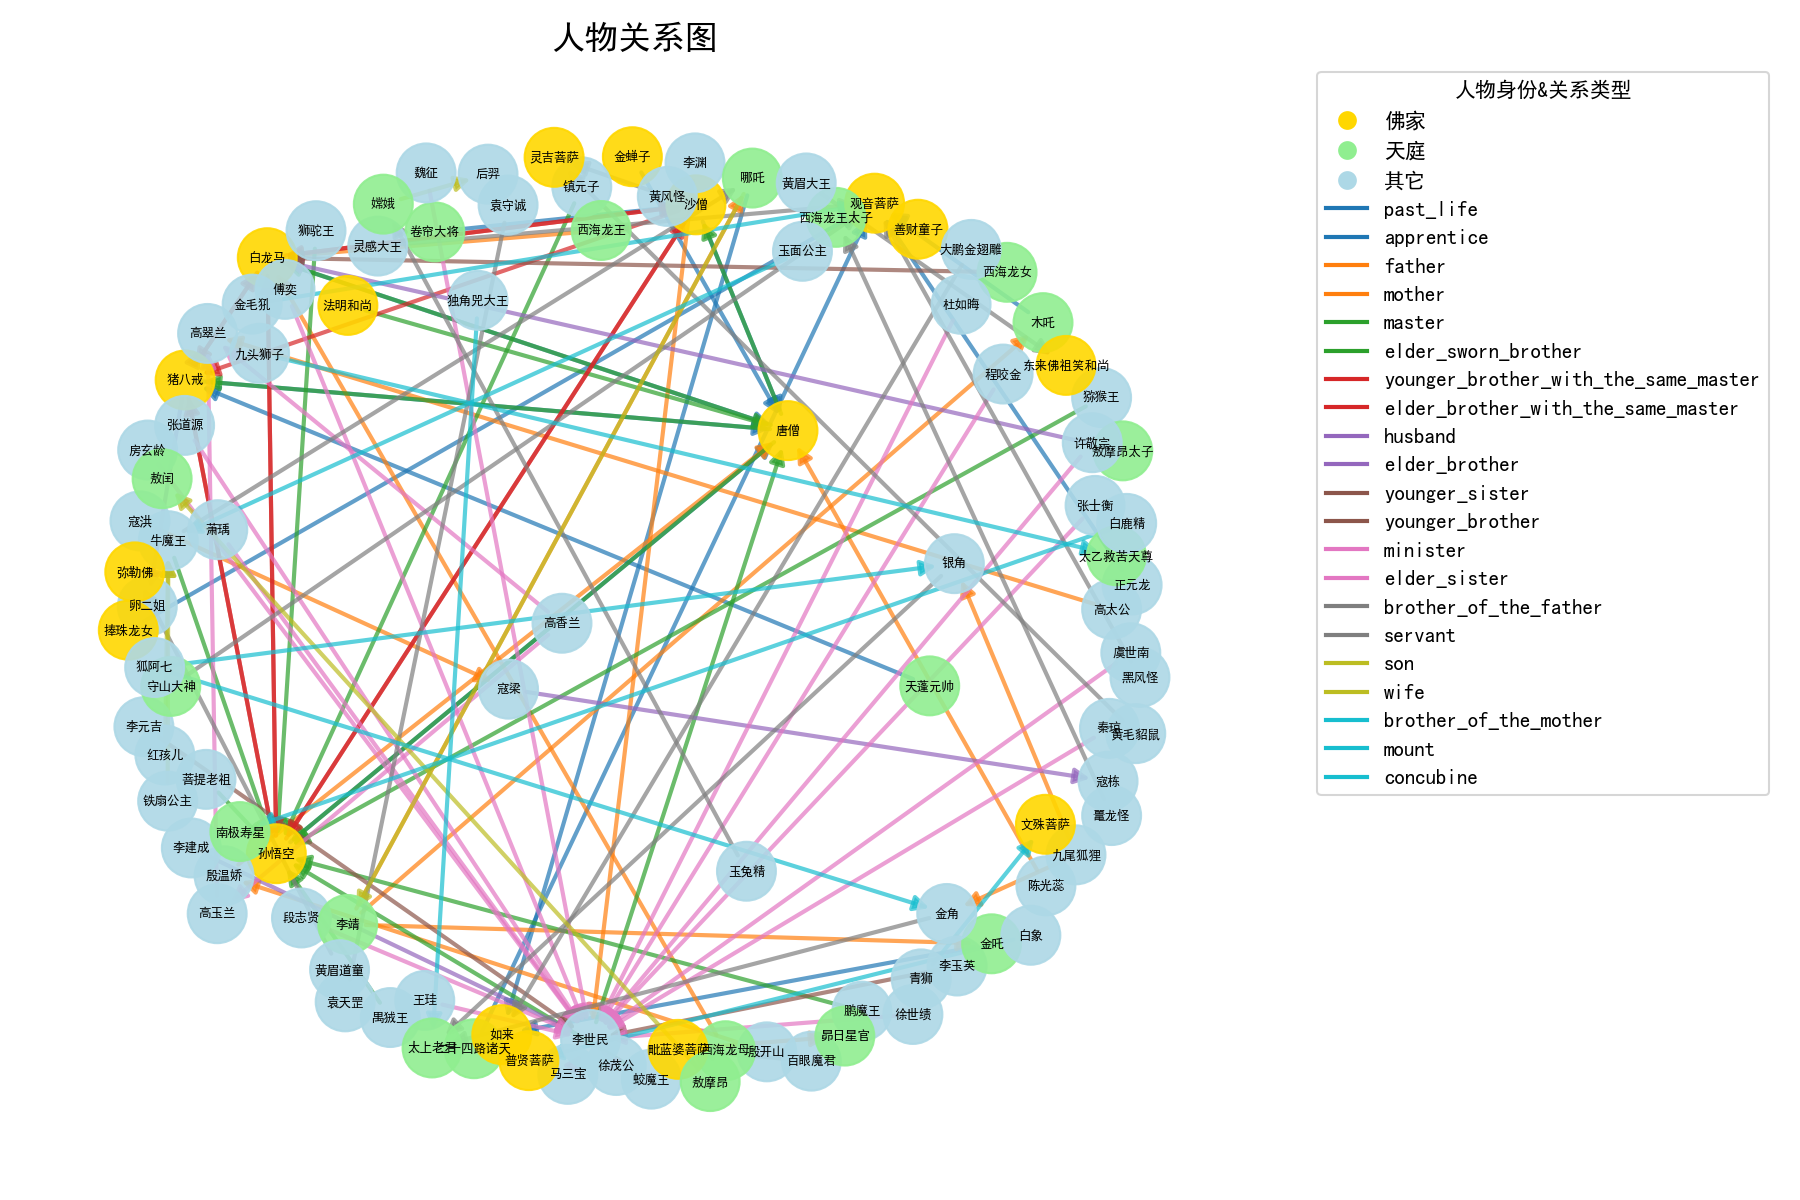
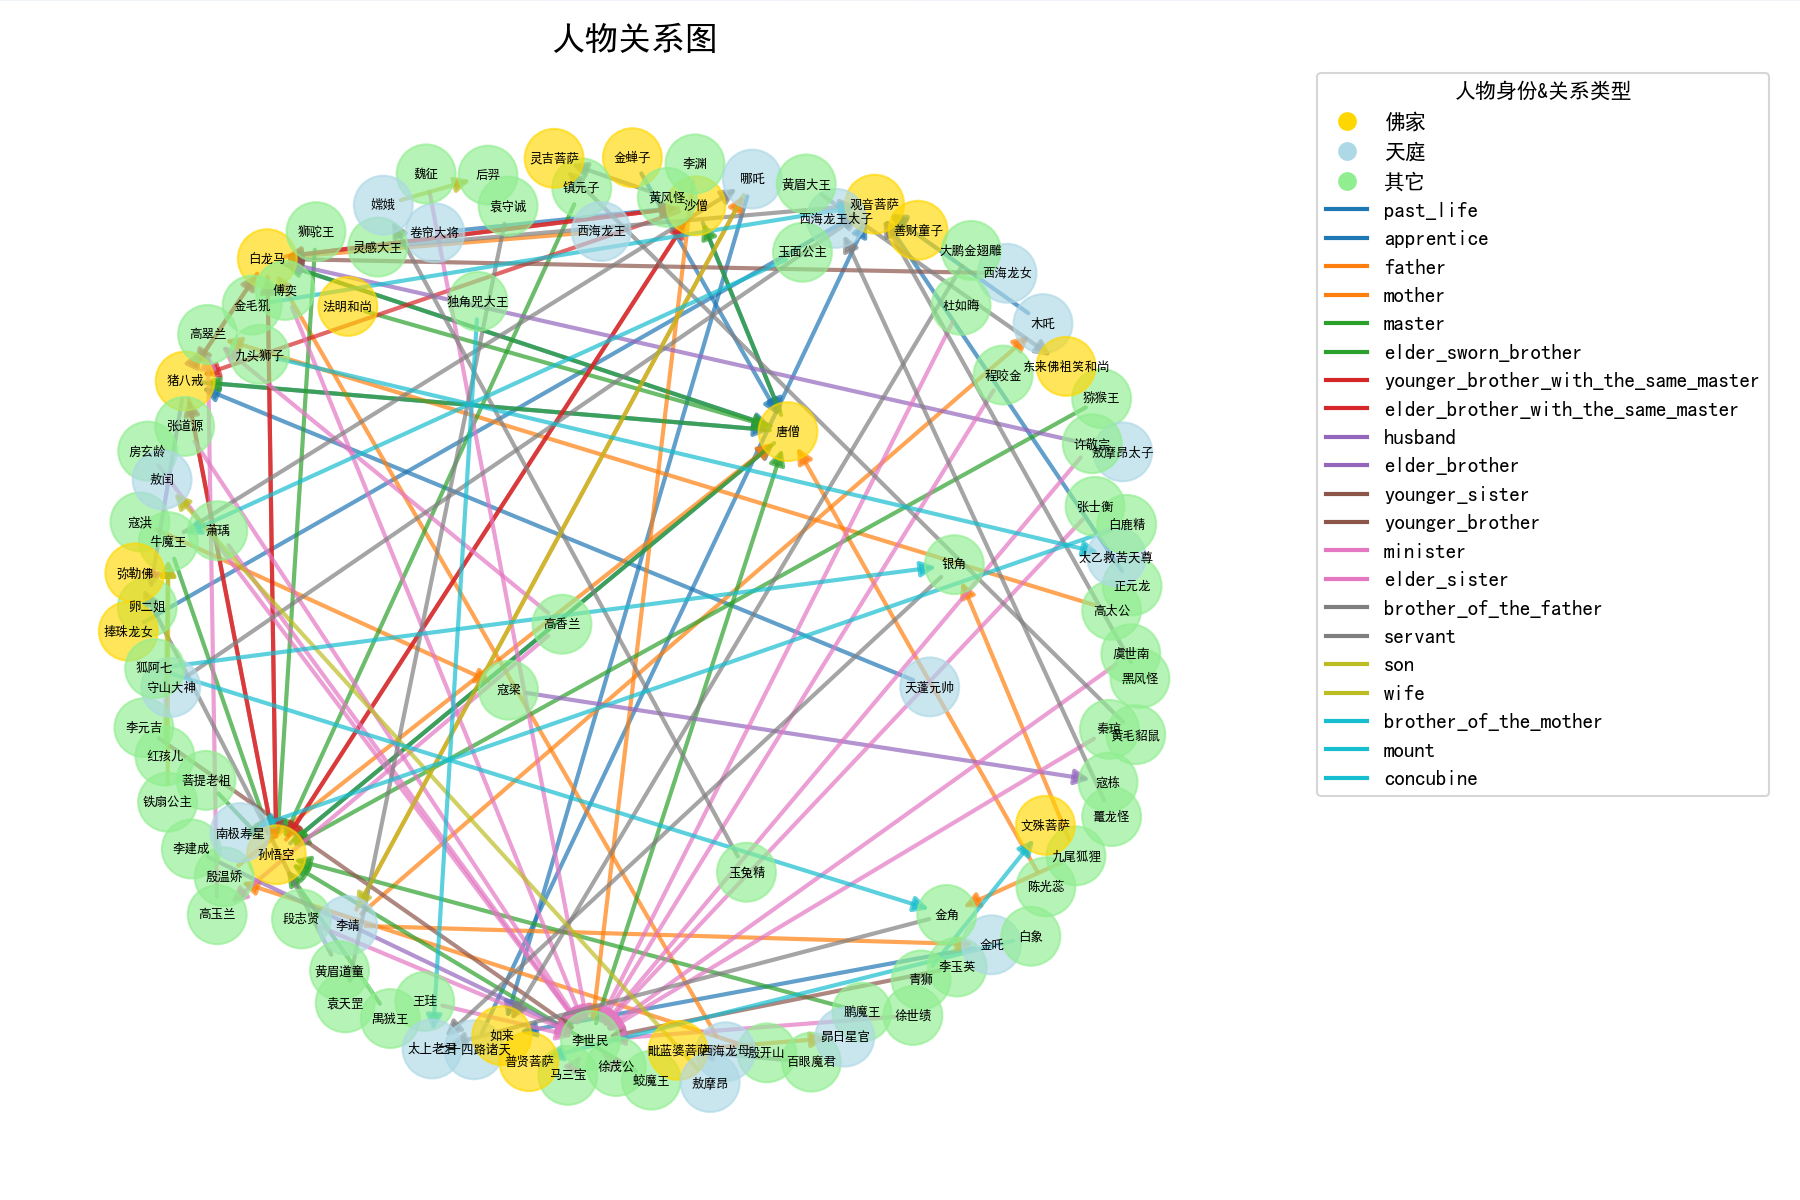
update

diff --git a/relation.py b/relation.py
@@ -22,8 +22,8 @@ with open('./relation_data/relation.json', 'r', encoding='utf-8') as f:
 
 identity_color_map = {
     "佛家": "gold",
-    "天庭": "lightgreen",
-    "其它": "lightblue"
+    "天庭": "lightblue",
+    "其它": "lightgreen"
 }
 
 name_role_map = {}
@@ -61,7 +61,7 @@ for node in G.nodes():
 
 plt.figure(figsize=(12, 8))
 # 绘制节点：减小节点大小
-nx.draw_networkx_nodes(G, pos, node_color=node_colors, node_size=800, alpha=0.9)
+nx.draw_networkx_nodes(G, pos, node_color=node_colors, node_size=800, alpha=0.65)
 nx.draw_networkx_labels(G, pos, font_size=6, font_family='sans-serif')
 
 # 分关系类型绘制边，不显示标签
